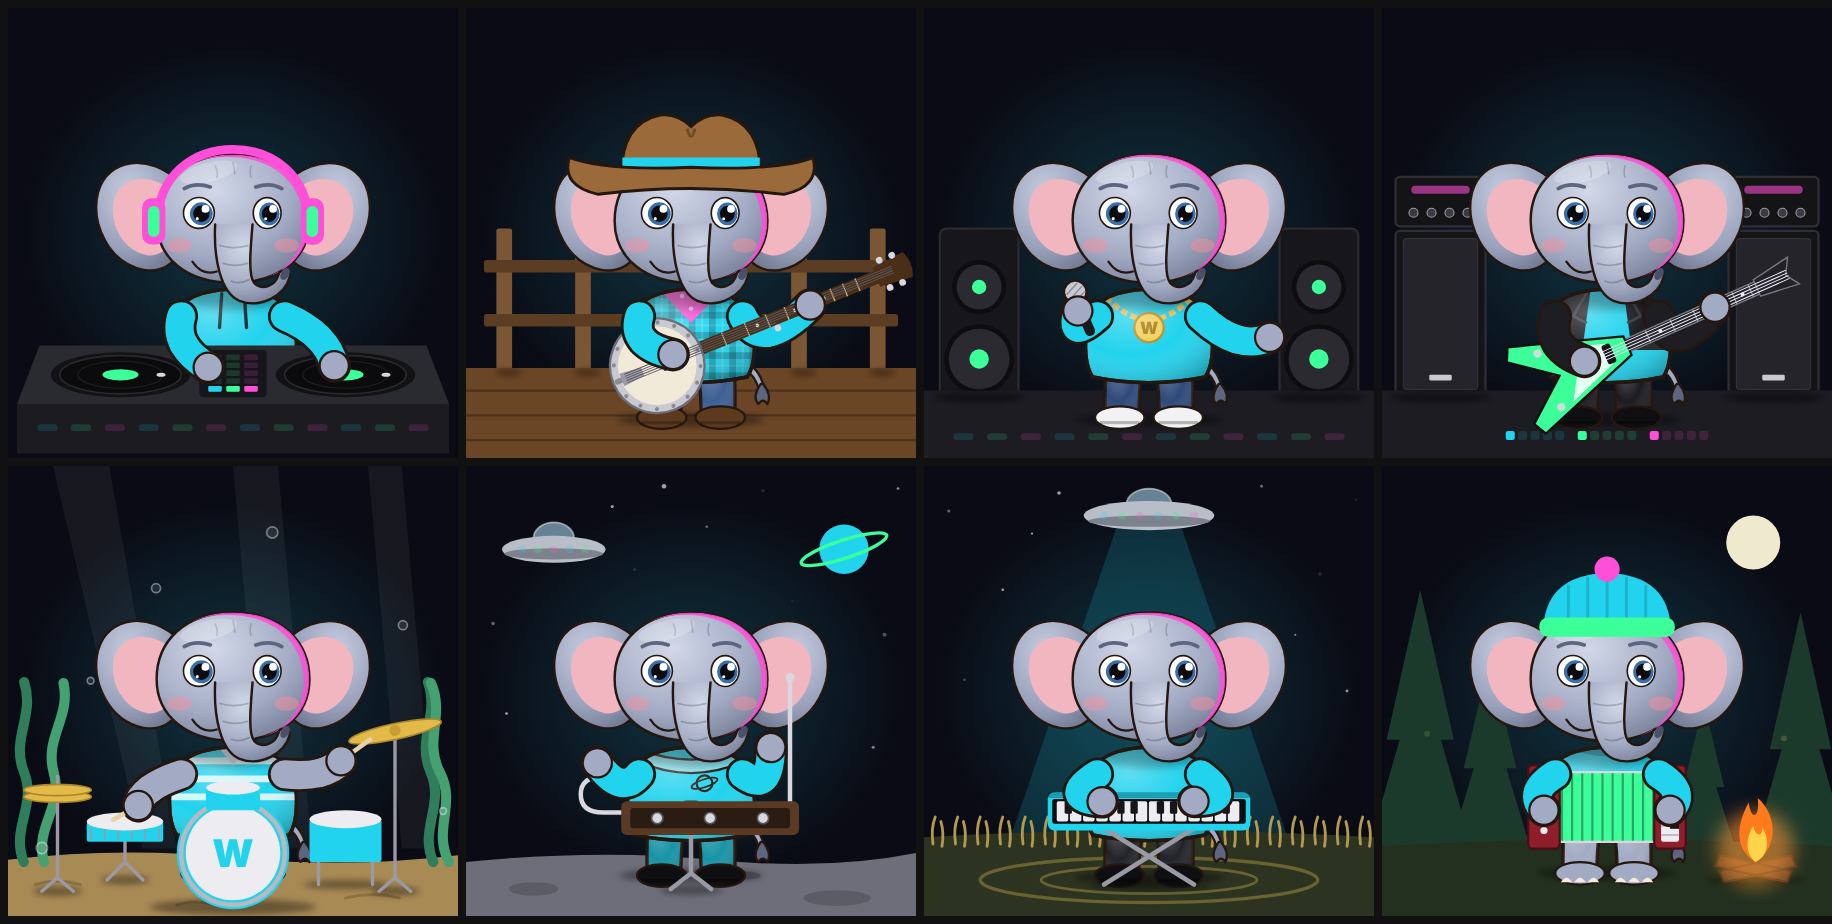
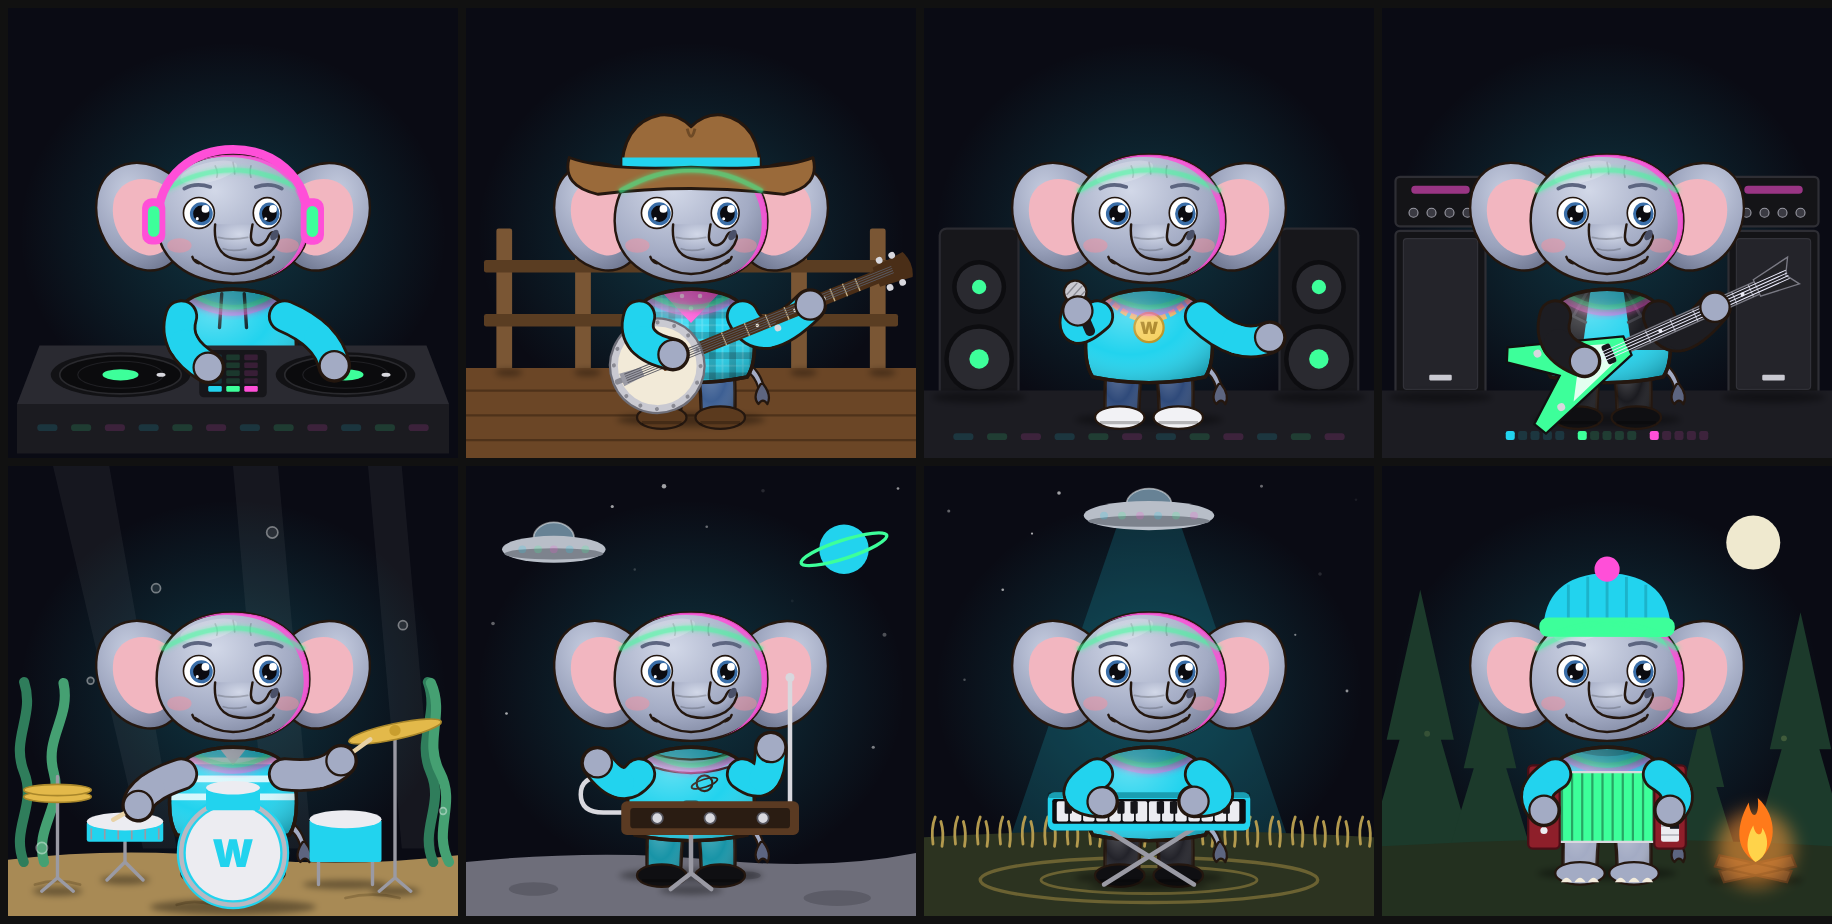
Critters: give the elephant a wide smile under its trunk
The mouth sat off to the left of a long trunk and read oddly. The trunk
is now short, curling up and out to the right above the mouth, with a
wide smile running right under it and a bigger singing mouth opening in
the middle of the smile. Docs and screenshot updated.

Claude-Session: https://claude.ai/code/session_014p1Va7pohP1H7XDVkFNmWB

diff --git a/src/components/critters/faces.tsx b/src/components/critters/faces.tsx
@@ -579,14 +579,14 @@ export function LionFace() {
 /** The elephant's left ear (the right is its mirror): a big rounded flap out to the side, pink inside. */
 const ELEPHANT_EAR = 'M140 128 C 104 92, 52 98, 40 140 C 30 180, 54 228, 96 236 C 118 240, 134 228, 142 212 Z';
 /** The trunk's outline, and just its two sides (its root at the top is left open, so it joins the face). */
-const TRUNK = 'M184 180 C 182 220, 190 264, 214 274 C 240 284, 270 268, 276 244 C 276 236, 264 234, 262 242 C 258 256, 242 262, 232 252 C 224 242, 228 206, 230 180 Z';
-const TRUNK_SIDES = 'M184 180 C 182 220, 190 264, 214 274 C 240 284, 270 268, 276 244 C 276 236, 264 234, 262 242 C 258 256, 242 262, 232 252 C 224 242, 228 206, 230 180';
+const TRUNK = 'M184 180 C 182 200, 188 218, 206 222 C 232 228, 256 218, 262 198 C 264 190, 254 186, 250 194 C 246 204, 238 208, 232 204 C 226 200, 228 192, 230 180 Z';
+const TRUNK_SIDES = 'M184 180 C 182 200, 188 218, 206 222 C 232 228, 256 218, 262 198 C 264 190, 254 186, 250 194 C 246 204, 238 208, 232 204 C 226 200, 228 192, 230 180';
 const ELEPHANT_EAR_IN = 'M132 140 C 106 116, 70 120, 60 148 C 52 178, 70 212, 100 218 C 116 220, 126 210, 130 200 Z';
 
 /**
  * An elephant calf's face, drawn cute and kept clear of famous cartoon elephants (no giant flying ears, no
  * hat or bonnet of its own): a round soft-grey head, big round ears out to the sides with pink insides,
- * big blue eyes, pink cheeks, and a short trunk that curls up to one side so the smile shows under it.
+ * big blue eyes, pink cheeks, a short trunk that curls up and out to the right, and a wide smile just under it.
  * The ears flap (rig) and stay out with every hat, even the cowboy hat; the hazmat hood hides the ears and
  * the trunk (`.elephant-ears`, `.elephant-trunk`, styles.css).
  */
@@ -621,16 +621,17 @@ export function ElephantFace() {
         <Lashes l={[148, 155]} r={[263, 155]} />
       </g>
       <Pair l="M146 136 Q 160 128 178 134" mid={206} stroke="#5d6580" width={4.5} />
-      <path data-part="smile" d="M156 226 Q 168 244 186 238" fill="none" stroke={INK} strokeWidth="2.8" strokeLinecap="round" />
-      <Mouth id="elephant" x={174} y={234} w={12} h={20} fill="#5a1a24" line={INK} teeth="none" />
-      {/* the trunk: down from between the eyes, past the chin, then curling up and out to the right; outlined
+      {/* the trunk: down from between the eyes, then curling up and out to the right above the mouth; outlined
           down its sides only, so it grows out of the face without a seam */}
       <g className="elephant-trunk">
         <path d={TRUNK} fill="url(#el-skin)" />
         <path d={TRUNK_SIDES} fill="none" className="ol" />
-        <path d="M190 206 q 16 5 34 0 M194 228 q 14 5 30 0 M204 250 q 10 4 22 -2" fill="none" stroke="rgb(0 0 0 / 0.2)" strokeWidth="2.2" strokeLinecap="round" />
-        <ellipse cx="270" cy="241" rx="8" ry="5" fill="#4a5068" transform="rotate(-60 270 241)" />
+        <path d="M188 196 q 16 4 36 0 M194 210 q 12 4 28 0" fill="none" stroke="rgb(0 0 0 / 0.2)" strokeWidth="2.2" strokeLinecap="round" />
+        <ellipse cx="257" cy="193" rx="7" ry="4.5" fill="#4a5068" transform="rotate(-60 257 193)" />
       </g>
+      {/* a wide smile right under the trunk, and the singing mouth in the middle of it */}
+      <path data-part="smile" d="M160 224 Q 206 258 252 224 M156 220 Q 158 226 164 228 M256 220 Q 254 226 248 228" fill="none" stroke={INK} strokeWidth="3" strokeLinecap="round" />
+      <Mouth id="elephant" x={206} y={230} w={24} h={34} fill="#5a1a24" line={INK} teeth="none" />
     </Placed>
   );
 }

diff --git a/docs/CRITTERS-ROADMAP.md b/docs/CRITTERS-ROADMAP.md
@@ -124,8 +124,9 @@ the asset work and a risk on low-end phones and the iOS WebView.
 - An elephant, a tiger and a lion (November 2026), drawn cute and kept clear of famous cartoon ones (no flying
   ears or bonnet, no blue nose or bouncy tail, no crown). The elephant's ears are `ear-l` / `ear-r` like the bears',
   but styles.css keeps them out under the cowboy hat and turns them from where they join the head, so they flap;
-  its trunk is outlined down its sides only, so it grows out of the face, and curls up to the right so the mouth
-  sits under its left side. The tiger and lion share a big-cat figure (`bigCat` in bodies.tsx) with their own
+  its trunk is outlined down its sides only, so it grows out of the face, and is short, curling up to the right
+  above a wide smile; the singing mouth opens in the middle of the smile, under the trunk (it first sat off to
+  one side and read oddly). The tiger and lion share a big-cat figure (`bigCat` in bodies.tsx) with their own
   tails. The lion's mane is drawn behind the head and left out for the girl, who is a lioness. The hazmat hood
   hides the elephant's ears and trunk and the lion's mane (`.elephant-ears`, `.elephant-trunk`, `.lion-mane`).
 - A sasquatch was drawn and then put on hold. Its face and figure are in git history (commit

diff --git a/docs/USER-GUIDE.md b/docs/USER-GUIDE.md
@@ -493,7 +493,7 @@ alien are all possible.
 | **Black bear** / **Brown bear** | Round ears and a pale muzzle, in black or brown fur |
 | **Moose** | Dark brown with a big droopy muzzle, a fur bell under the chin, long ears, pale stockings and hooves, and wide flat antlers that stick out either side of any hat (and tuck under the hazmat hood) |
 | **Turtle** | Sea-green with a soft mint muzzle, big blue eyes, rosy cheeks and a wide smile, carrying a high domed shell whose rim shows round any outfit |
-| **Elephant** | A soft grey calf with big round pink-lined ears that stick out either side of any hat and flap to the beat, and a short trunk curling up to one side |
+| **Elephant** | A soft grey calf with big round pink-lined ears that stick out either side of any hat and flap to the beat, a short trunk curling up to one side and a wide smile under it |
 | **Tiger** | An orange cub with bold black stripes, white cheeks, green eyes, a pink nose and a striped tail |
 | **Lion** | A golden cub in a russet mane (the girl is a lioness, without one), with a cream muzzle and a tufted tail |
 

diff --git a/CHANGELOG.md b/CHANGELOG.md
@@ -3,7 +3,7 @@
 ## 0.30.0
 - **An elephant, a tiger and a lion.** Three more critters, drawn cute. The elephant calf is soft grey with big
   round pink-lined ears that stay out either side of every hat (even the cowboy hat) and flap to the beat, and a
-  short trunk that curls up to one side so the smile shows under it. The tiger cub is orange with bold stripes, white
+  short trunk that curls up and out to the right, with a wide smile (and a big singing mouth) just under it. The tiger cub is orange with bold stripes, white
   cheeks, green eyes and a pink nose, and a striped tail. The lion cub has a russet mane round its head (the girl is a
   lioness, without one) and a tufted tail. All three play every act as a boy or a girl; the hazmat hood hides the
   ears, trunk and mane (`ElephantFace`, `TigerFace`, `LionFace` in `faces.tsx`; `FIGURES.elephant` and the big-cat
